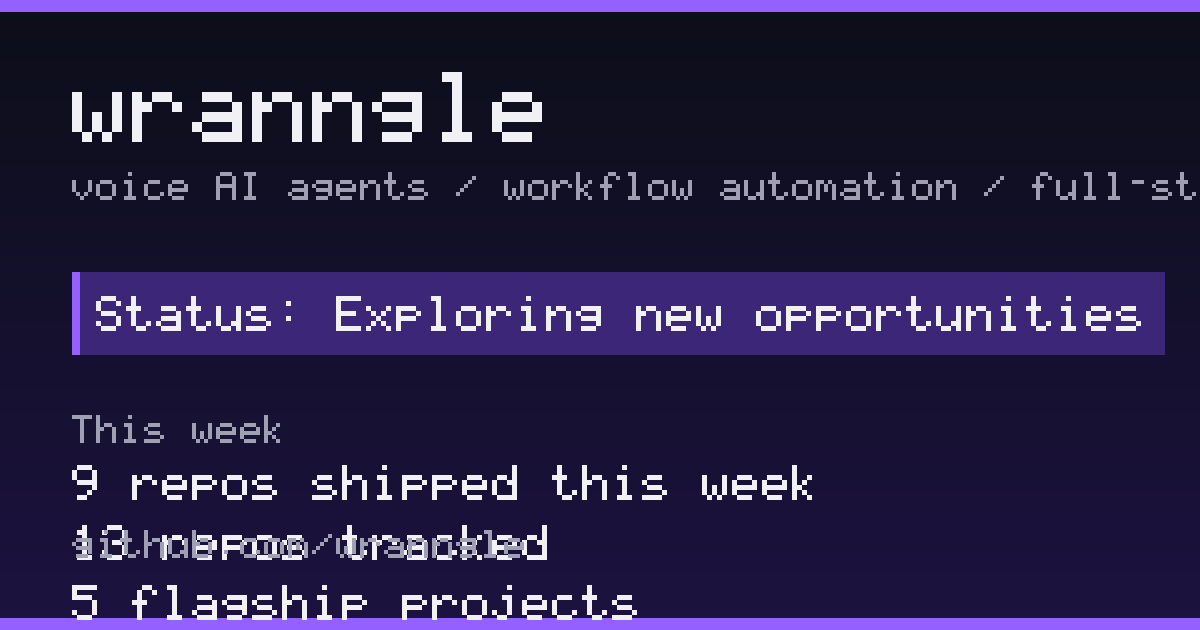
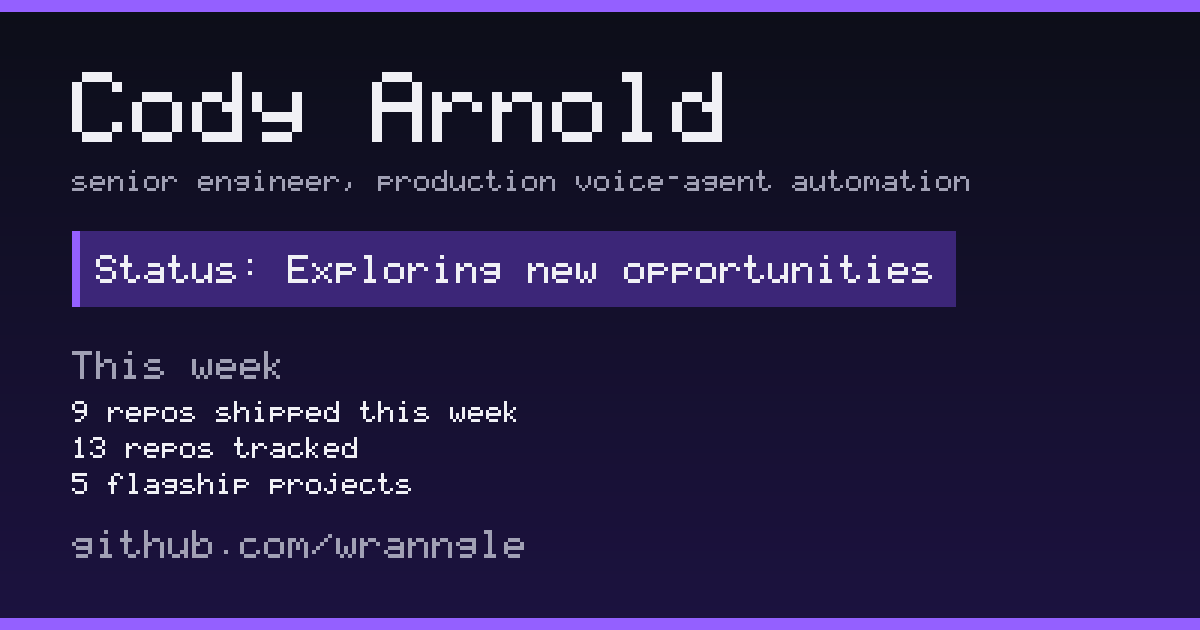
fix(readme): resolve LinkedIn contact link, add License footer, fix og.png layout
F4: intro promised "contact via GitHub or LinkedIn" but no LinkedIn URL
existed anywhere in the README document (only reachable via GitHub's
own profile sidebar, outside the doc). Added
https://linkedin.com/in/codyarnold96 to data/profile.json's links
field and wired it through templates/README.template.md so the
promise resolves in-document. linkedin.com returns HTTP 999 to
automated requests (standard anti-bot behavior, not a broken link);
replaced the vestigial, never-used Loom placeholder in .lycheeignore
with a linkedin.com skip so the link-check CI workflow does not
false-positive on it.

License footer: root LICENSE (MIT, added 2026-06-25) was never linked
from README.md, despite being a real file. Added a `license` field to
profile.json and a "License: [MIT](LICENSE)" line to the template.

F11: scripts/regen-og.mjs hardcoded the H1 as "wranngle" (stale since
before PR #14 renamed the identity to "Cody Arnold") and used fixed Y
offsets that assumed short content, so the tagline overflowed the
1200px canvas mid-word and the "repos tracked" stat line ran into the
footer. Replaced with content-driven layout: title/tagline/badge text
now pulls from profile.json (name/tagline) and dynamically downscales
to fit available width; vertical stacking is computed from actual
block heights with a stats block that scales to fit the remaining
budget above the footer instead of a hardcoded step. Re-ran against
current profile.json and visually verified the regenerated og.png
[…]

diff --git a/README.md b/README.md
@@ -63,4 +63,7 @@ repeatable portal workflows.
 **Links:** [wranngle.com](https://wranngle.com) |
 [About](https://wranngle.com/about) |
 [Plain-text profile](https://wranngle.com/cody-arnold.md) |
+[LinkedIn](https://linkedin.com/in/codyarnold96) |
 cody@wranngle.com
+
+License: [MIT](LICENSE)

diff --git a/templates/README.template.md b/templates/README.template.md
@@ -27,3 +27,5 @@
 {{/each}}
 
 **Links:** {{links}}
+
+License: [{{license}}](LICENSE)
